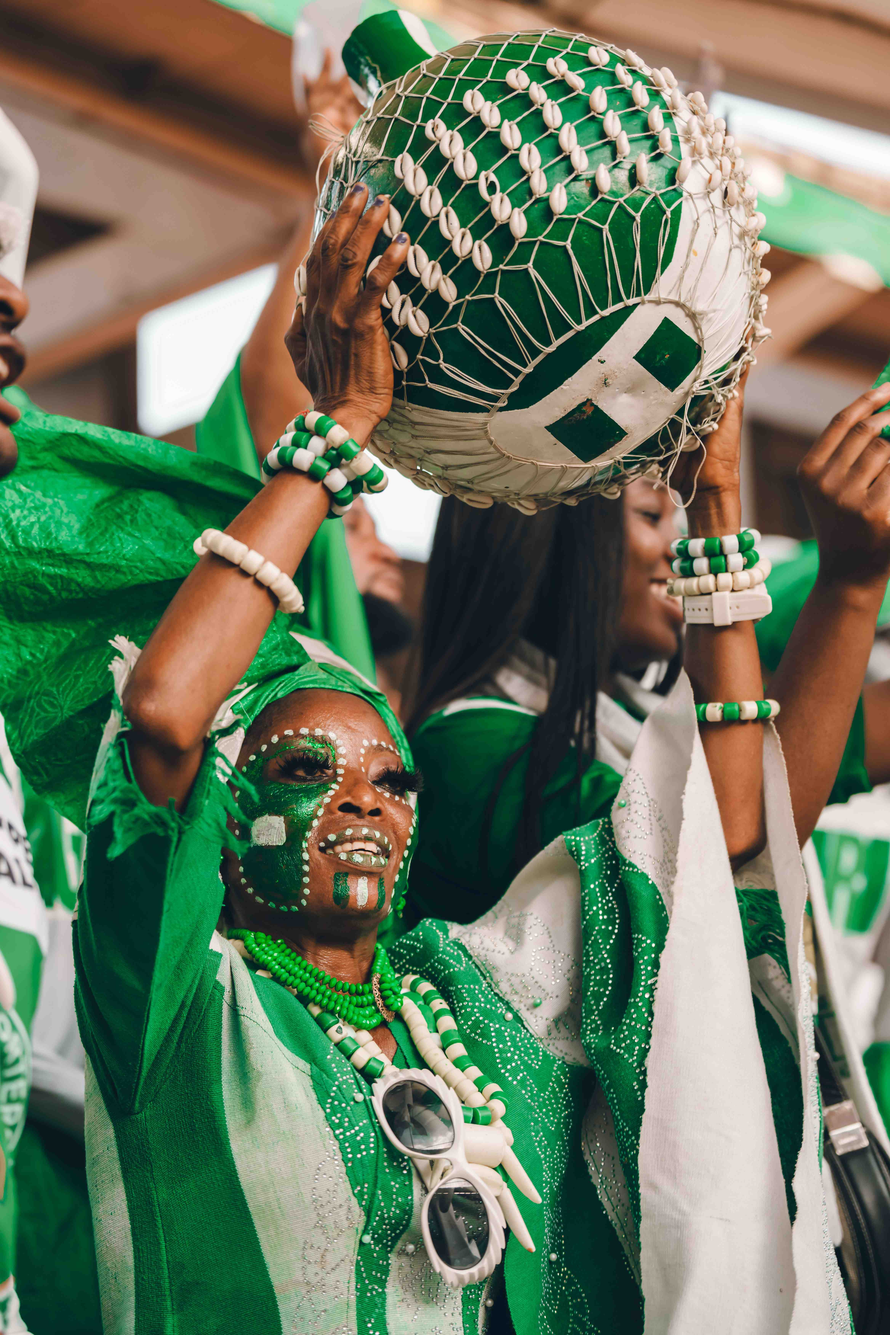
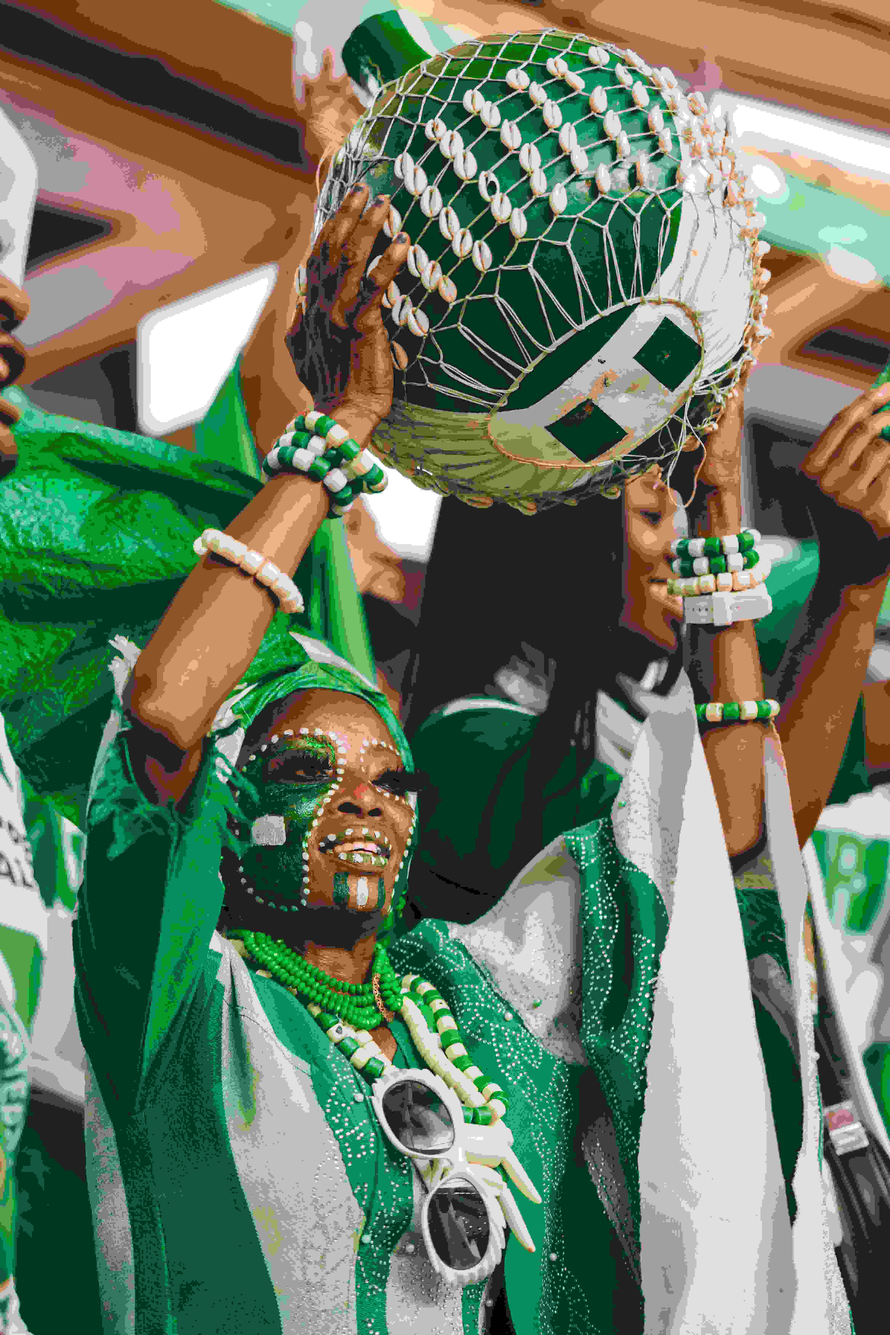
week02 query learning

diff --git a/week02/media-query.html b/week02/media-query.html
@@ -1,0 +1,32 @@
+<!DOCTYPE html>
+<html lang="en">
+<head>
+    <meta charset="UTF-8">
+    <meta name="viewport" content="width=device-width, initial-scale=1.0">
+    <title>WDD - MEDIA QUERY EXAMPLE</title>
+    <meta name="description" content="WDD131 Media query learning activity example.">
+    <meta name="author" content="David Azubuike Ezenwa">
+    <link rel="preconnect" href="https://fonts.googleapis.com">
+    <link rel="preconnect" href="https://fonts.gstatic.com" crossorigin>
+    <link href="https://fonts.googleapis.com/css2?family=Roboto&display=swap" rel="stylesheet">
+    <link rel="stylesheet" href="styles/media-query.css">
+    <link rel="stylesheet" href="styles/media-query-large.css">
+</head>
+<body>
+    <header>
+        <h1>Media Query Example</h1>
+    </header>
+    <main>
+        <section>
+            <h2>Revelation chapeter 2 vs 20-21:</h2>
+            <p> And upon that day it was so clear</p>
+        </section>
+        <section>
+            <h2>John 3 vs 16:</h2>
+            <p>For God so loved the world that he gave his only begotten son, that whosoever beliveth in him shall not die.</p>
+        </section>
+    </main>
+    <footer> DAVID AZUBUIKE EZENWA</footer>
+    
+</body>
+</html>

diff --git a/week02/styles/media-query.css b/week02/styles/media-query.css
@@ -1,0 +1,22 @@
+body {
+    font-family: "roboto", sans-serif;
+
+}
+header, main, footer {
+    max-width: 640px;
+    margin: 1rem auto;
+    border: 1px solid #333;
+    padding:10px;
+    background-color: rgb(130, 130, 235);
+}
+
+main {
+    display: grid;
+    grid-template-columns: 1fr;
+    gap: 1rem;
+}
+
+section {
+    padding: 1rem;
+    background-color: #fff;
+}

diff --git a/week02/styles/media-query-large.css b/week02/styles/media-query-large.css
@@ -1,0 +1,12 @@
+@media screen and (max-width: 500px) {
+    header {
+        background-color: black;
+        color: #fff;
+        
+    }
+    main {
+        display: grid;
+        grid-template-columns: 1fr 1fr;
+
+    }
+}
